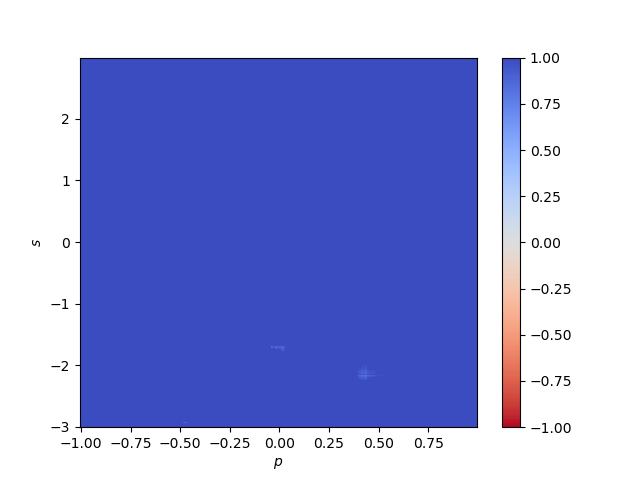
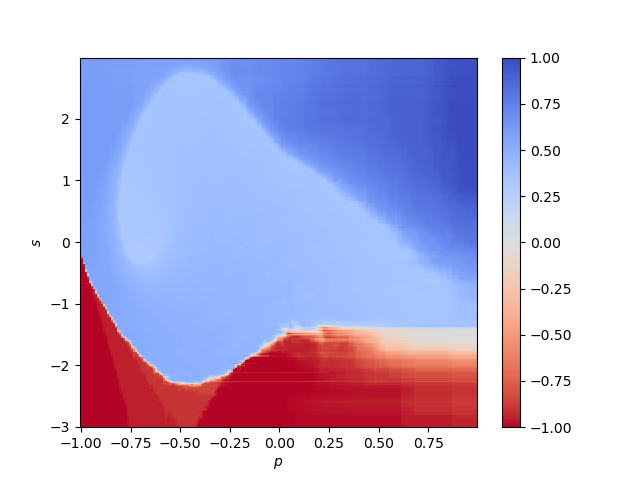
Q_fitting

diff --git a/2/section4.py b/2/section4.py
@@ -25,10 +25,10 @@ def get_stopping_rules():
 
 def get_models():
     LR = LinearRegression(n_jobs=-1)
-    ETR = ExtraTreesRegressor(n_estimators=30, random_state=42, n_jobs=-1)
+    ETR = ExtraTreesRegressor(n_estimators=30, random_state=42)
     # TODO: MLP
 
-    return LR, ETR
+    return ETR, LR
 
 def get_trajectories(trajectory_length, N):
     # Random
@@ -42,7 +42,7 @@ def get_trajectories(trajectory_length, N):
         simulation = Simulation(domain, random_policy, initial_state, remember_trajectory=True, seed=n, stop_when_terminal=True)
         simulation.simulate(trajectory_length)
         random_trajectories.extend(np.array(simulation.get_trajectory(values=True)).squeeze())
-        print(n, "/", N)
+        print("\r ", n, "/", N, end="\r")
 
     random_trajectories = np.array(random_trajectories)
     
@@ -62,6 +62,7 @@ def plot_Q(model, title:str):
         gridshape = pp.shape
 
         y_pred = model.predict(stateaction).reshape(gridshape[:-1])
+        print(y_pred)
 
         plt.pcolormesh(
         p[:-1], s[:-1], y_pred.T,
@@ -108,7 +109,7 @@ if __name__ == "__main__":
     epsilon = 1e-3
     N = math.ceil(math.log((epsilon / (2 * B_r)) * (1. - DISCOUNT_FACTOR), DISCOUNT_FACTOR))
 
-    for trajectories in get_trajectories(500, 500):
+    for trajectories in get_trajectories(5000, 5000):
         for stopping_rule in get_stopping_rules():
             for model in get_models():
                 fitted_Q = Fitted_Q(model, stopping_rule, DISCOUNT_FACTOR)
@@ -122,6 +123,7 @@ if __name__ == "__main__":
 
                 j = J(domain, fitted_Q_policy, DISCOUNT_FACTOR, nb_simulation, N)
                 print(j)
+                exit()
 
 
 

diff --git a/2/python/simulation.py b/2/python/simulation.py
@@ -10,7 +10,7 @@ class Simulation():
         remember_trajectory: if true, it keeps track of the trajectory done by the simulator
         initial_state: initial state on the domain
     """
-    def __init__(self, domain: CarOnTheHillDomain, policy: Policy, initial_state: State, remember_trajectory=False, seed=43, stop_when_terminal=False) -> None:
+    def __init__(self, domain: CarOnTheHillDomain, policy: Policy, initial_state: State, remember_trajectory=False, seed=43, stop_when_terminal=True) -> None:
         self.domain = domain
         self.policy = policy
         self.state = initial_state
@@ -34,7 +34,8 @@ class Simulation():
             action = self.policy.make_action(self.state)
             previous_state = self.state
             self.state = self.domain.f(self.state, action)
-            reward = self.domain.r(self.state, action)
+            reward = self.domain.r(previous_state, action)
+            
             if self.trajectory is not None:
                 self.trajectory.append((previous_state, action, reward, self.state))
 

diff --git a/2/python/fitted_Q.py b/2/python/fitted_Q.py
@@ -24,13 +24,18 @@ class Fitted_Q():
         # generate combination of [state action] pairs
         X_1 = np.c_[np.repeat(next_states, 2, axis=0), np.tile(np.array(ACTIONS), len(next_states))] 
 
+        terminal = rewards != 0
+
         for _ in range(self.N):
             self.model.fit(X, y)
             Q_hat = self.model.predict(X_1).reshape(-1, 2)
 
             max_u = Q_hat.max(axis=1) # extract the  values doing the best actions
 
-            y = rewards + self.discount_factor * max_u
+            # When a terminal state is reached, it can not gain anymore rewards afterward
+            y = np.where(terminal, rewards, self.discount_factor * max_u)
+
+            # y = rewards + self.discount_factor * max_u
 
     def predict(self, X):
         """ predict given state action pairs """

diff --git a/2/python/expected_return.py b/2/python/expected_return.py
@@ -28,7 +28,7 @@ def J(domain: CarOnTheHillDomain, policy: Policy, discount_factor:float, nb_simu
     for i in range(nb_simulations):
         initial_state = State.random_initial_state()
 
-        simulation = Simulation(domain, policy, initial_state, remember_trajectory=True, seed=nb_simulations*seed + i)
+        simulation = Simulation(domain, policy, initial_state, remember_trajectory=True, seed=nb_simulations*seed + i, stop_when_terminal=True)
         simulation.simulate(trajectory_length)
 
         trajectories = np.array(simulation.get_trajectory())

diff --git a/2/python/domain.py b/2/python/domain.py
@@ -3,9 +3,10 @@ import numpy as np
 ACTIONS = [4, -4] #Action space discrete ? written as {-4, 4} and not [-4, 4] in the assignment
 
 class State:
+
     def __init__(self, p: float, s: float):
         self.terminal = False
-        if np.abs(p) > 1 or np.abs(s) > 3:
+        if (p < -1 or np.abs(s) > 3) or (p > 1 and np.abs(s) <=3):
             self.terminal = True 
         self.p = p
         self.s = s
